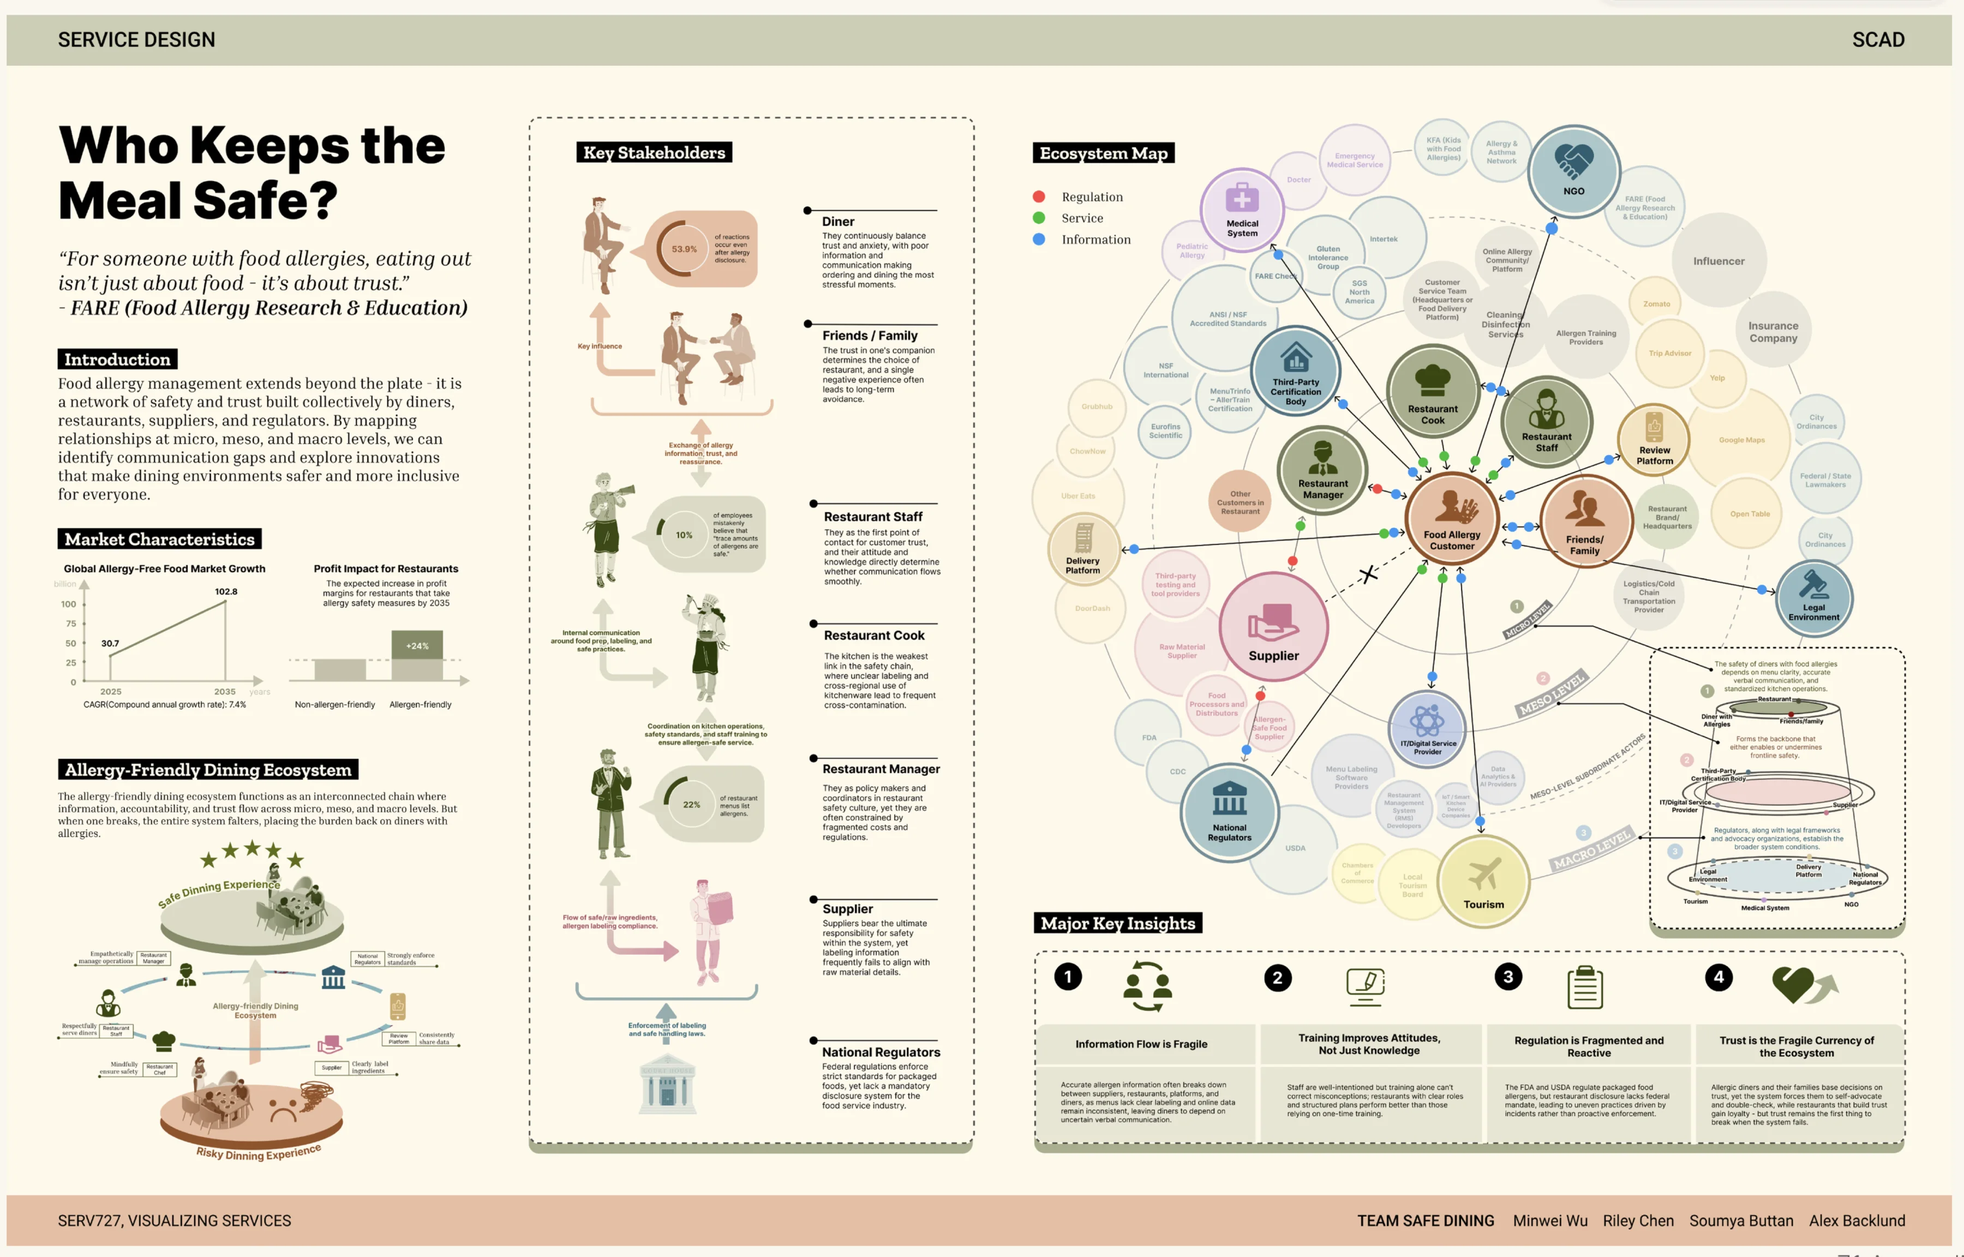
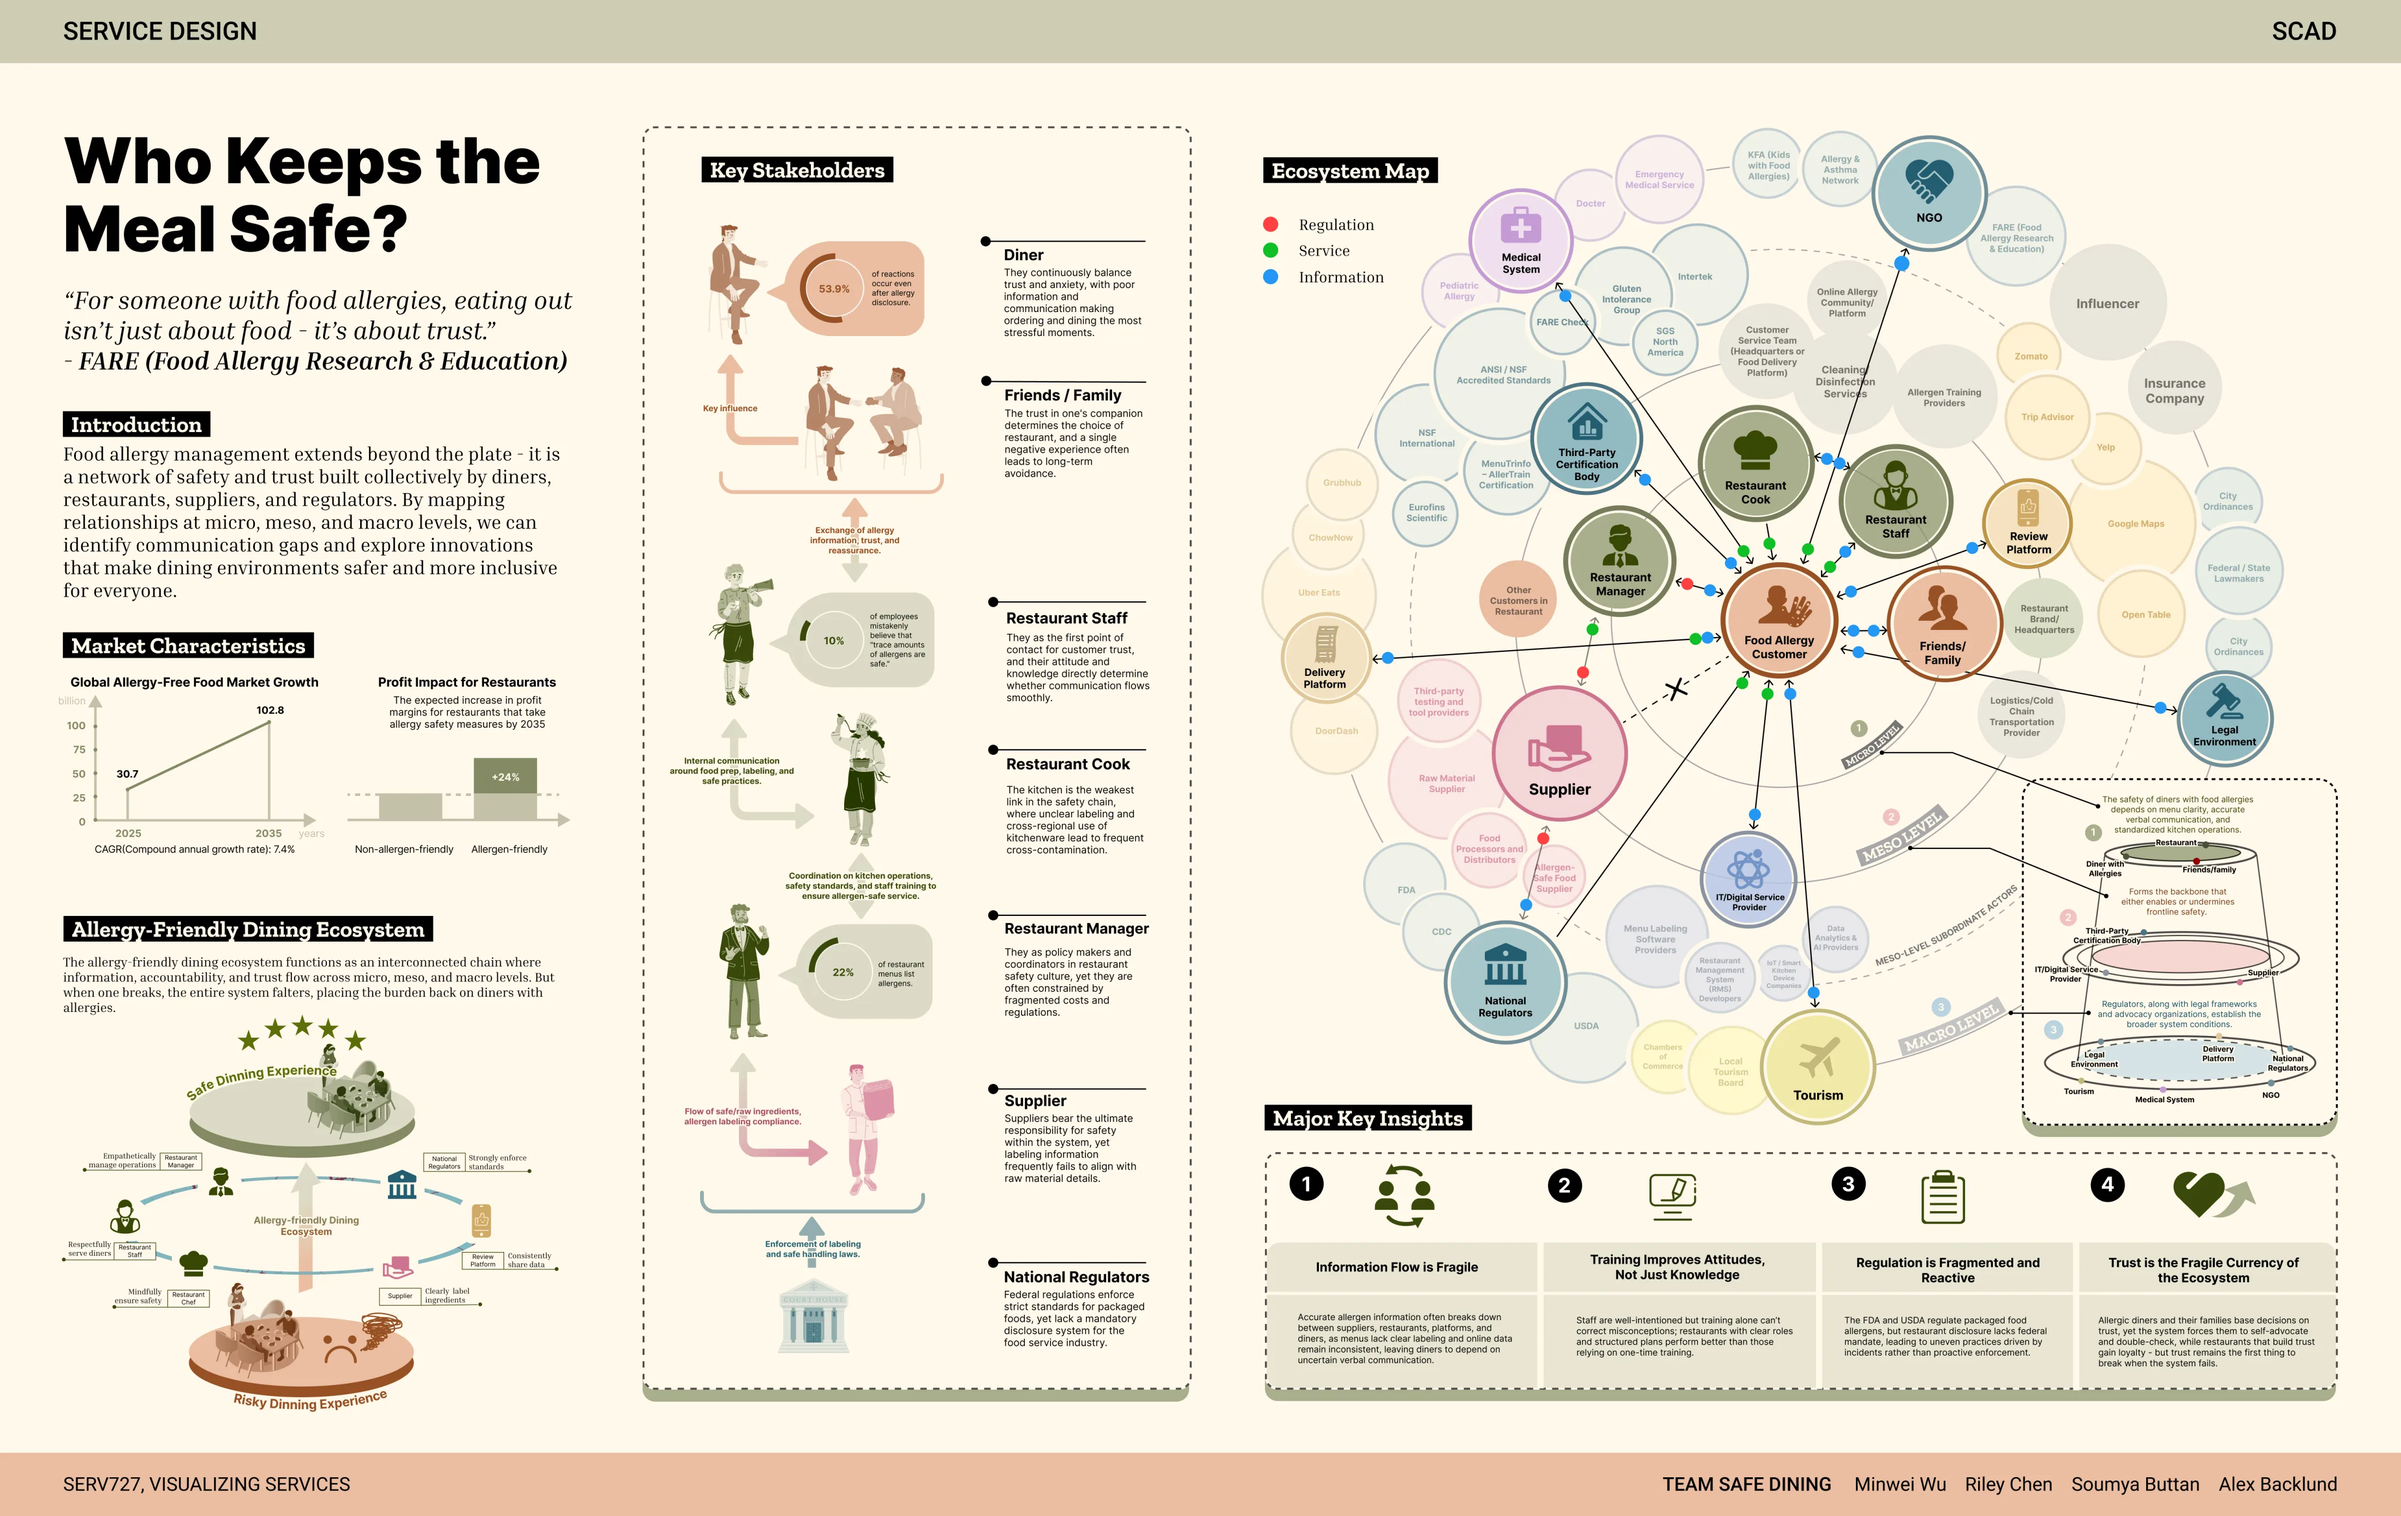
Safe Dining: final maps and posters from Figma
Full customer journey map (jobs to be done, needs, opportunity scores),
the ecosystem/system map, and the two infographic posters exported from
the Figma finals instead of the PDF.

diff --git a/projects/safedining.html b/projects/safedining.html
@@ -16,7 +16,7 @@
   <link rel="preconnect" href="https://fonts.gstatic.com" crossorigin>
   <link rel="stylesheet" href="https://fonts.googleapis.com/css2?family=Inter:opsz,wght@14..32,400;14..32,500;14..32,600;14..32,700&family=Poppins:wght@400;500;600&family=Sulphur+Point:wght@400&display=swap">
   <link rel="stylesheet" href="../styles.css?v=20261017a">
-  <link rel="stylesheet" href="../case.css?v=20261018b">
+  <link rel="stylesheet" href="../case.css?v=20261018c">
 </head>
 <body class="case case--olive">
   <a class="skip" href="#main">Skip to content</a>
@@ -82,9 +82,9 @@
       </div>
       <div class="c-covers">
         <img class="wipe" src="../assets/projects/safedining/wp/01.webp" alt="White paper cover: Safe Dining for People With Allergies" width="1600" height="1236" loading="lazy">
-        <img class="wipe" src="../assets/projects/safedining/poster-journey.webp" alt="Infographic poster: Customer Journey Map" width="3600" height="2304" loading="lazy">
+        <img class="wipe" src="../assets/projects/safedining/poster-journey.webp?v=2" alt="Infographic poster: Customer Journey Map" width="4400" height="2779" loading="lazy">
         <img class="wipe" src="../assets/projects/safedining/wp/07.webp" alt="White paper spread: Sitting at the Table of Trust" width="1600" height="1236" loading="lazy">
-        <img class="wipe" src="../assets/projects/safedining/poster-ecosystem.webp" alt="Infographic poster: Ecosystem Map" width="3600" height="2304" loading="lazy">
+        <img class="wipe" src="../assets/projects/safedining/poster-ecosystem.webp?v=2" alt="Infographic poster: Ecosystem Map" width="4400" height="2779" loading="lazy">
       </div>
     </section>
 
@@ -206,8 +206,8 @@
         </div>
         <p class="persona__story">Tomorrow Agnes is hosting a small dinner with friends. They want to try somewhere new, but with her allergies, every choice has to be made carefully.</p>
       </div>
-      <p class="c-text reveal" style="margin-top:72px">We followed her through seven stages, from the first pang of hunger to the review she leaves afterwards. Her mood dips hardest while searching, walking in and ordering, where information is missing and staff knowledge is a gamble.</p>
-      <figure class="c-figure reveal"><img src="../assets/projects/safedining/journey-map.webp" alt="Customer journey map: stages, touchpoints, emotional curve, pain points and opportunities" width="3200" height="2309" loading="lazy"></figure>
+      <p class="c-text reveal" style="margin-top:72px">We followed her through seven stages, from the first pang of hunger to the review she leaves afterwards, mapping her jobs to be done, needs and emotions at each one. Her mood dips hardest while searching, walking in and ordering, where information is missing and staff knowledge is a gamble. Scoring importance against satisfaction showed where to act first.</p>
+      <figure class="c-figure c-figure--tall reveal"><img src="../assets/projects/safedining/journey-map.webp?v=2" alt="Allergy-friendly dining customer journey map: stages, touchpoints, emotions, jobs to be done, needs, pain points, opportunities and opportunity scores" width="2600" height="3994" loading="lazy"></figure>
     </section>
 
     <!-- 04 Ecosystem -->
@@ -216,7 +216,8 @@
         <div class="c-chapter"><span class="c-chapter__num">04</span><h2 class="c-kicker">Ecosystem analysis</h2></div>
         <p class="c-head reveal-mask">Many players, shared responsibility.</p>
         <p class="c-text reveal">Safety doesn’t live with one server. It travels from regulators and suppliers, through managers and kitchens, to the diner’s table. We mapped that chain at the micro, meso and macro level to find where it breaks.</p>
-        <div class="switcher switcher--sheets" data-tabs style="margin-top:48px">
+        <figure class="c-figure c-figure--map reveal"><img src="../assets/projects/safedining/system-map.webp" alt="Allergy-friendly dining ecosystem map: the restaurant at the centre, surrounded by suppliers, certification bodies, review and delivery platforms, regulators, advocacy groups, the medical system and tourism, linked by service, money, goods, information, value and regulation" width="3000" height="2680" loading="lazy"><figcaption>Six kinds of flow (service, money, physical goods, information, intangible value and regulation) between everyone who touches the meal.</figcaption></figure>
+        <div class="switcher switcher--sheets" data-tabs style="margin-top:72px">
           <div class="switcher__tabs" role="tablist" aria-label="Ecosystem maps">
             <button role="tab" aria-selected="true">Ecosystem map</button>
             <button role="tab" aria-selected="false" tabindex="-1">Where it breaks</button>
@@ -299,8 +300,8 @@
       <p class="c-head reveal-mask">Research you can read across a room.</p>
       <p class="c-text reveal">Two printed posters carry the journey and the ecosystem, each with a QR code to its interactive online version. Click to look closer.</p>
       <div class="posters reveal-stagger">
-        <figure><img src="../assets/projects/safedining/poster-journey.webp" alt="Infographic poster: Between Anxiety and Assurance, the customer journey map" width="3600" height="2304" loading="lazy"><figcaption>Between Anxiety and Assurance · customer journey map</figcaption></figure>
-        <figure><img src="../assets/projects/safedining/poster-ecosystem.webp" alt="Infographic poster: Who Keeps the Meal Safe, the ecosystem map" width="3600" height="2304" loading="lazy"><figcaption>Who Keeps the Meal Safe? · ecosystem map</figcaption></figure>
+        <figure><img src="../assets/projects/safedining/poster-journey.webp?v=2" alt="Infographic poster: Between Anxiety and Assurance, the customer journey map" width="4400" height="2779" loading="lazy"><figcaption>Between Anxiety and Assurance · customer journey map</figcaption></figure>
+        <figure><img src="../assets/projects/safedining/poster-ecosystem.webp?v=2" alt="Infographic poster: Who Keeps the Meal Safe, the ecosystem map" width="4400" height="2779" loading="lazy"><figcaption>Who Keeps the Meal Safe? · ecosystem map</figcaption></figure>
       </div>
       <figure class="c-figure reveal"><img src="../assets/projects/safedining/infographic-board.webp" alt="Infographic board: prevalence, the Big 9 allergens, market growth, profit impact, emotional drivers, stakeholder ecosystem, problem heatmap and opportunity matrix" width="3200" height="2692" loading="lazy"></figure>
     </section>

diff --git a/case.css b/case.css
@@ -540,3 +540,8 @@ img.is-zoomable { cursor: zoom-in; }
 .flip.is-start .flip__book::after { left: 53%; }
 .flip.is-end .flip__book::after { right: 53%; }
 .flip__book::after { transition: left .9s var(--ease), right .9s var(--ease); }
+/* Tall and square maps: keep them readable without filling the whole screen */
+.c-figure--tall { max-width: 980px; margin-left: auto; margin-right: auto; }
+.c-figure--map { margin-top: 56px; }
+.c-figure--map img { background: #fff; padding: clamp(8px, 2vw, 28px); }
+.c-figure--map figcaption { margin-top: 14px; font-size: 15px; color: var(--c-muted); }

diff --git a/projects/brilliant.html b/projects/brilliant.html
@@ -16,7 +16,7 @@
   <link rel="preconnect" href="https://fonts.gstatic.com" crossorigin>
   <link rel="stylesheet" href="https://fonts.googleapis.com/css2?family=Inter:opsz,wght@14..32,400;14..32,500;14..32,600;14..32,700&family=Poppins:wght@400;500;600&family=Sulphur+Point:wght@400&display=swap">
   <link rel="stylesheet" href="../styles.css?v=20261017a">
-  <link rel="stylesheet" href="../case.css?v=20261018b">
+  <link rel="stylesheet" href="../case.css?v=20261018c">
 </head>
 <body class="case case--light">
   <a class="skip" href="#main">Skip to content</a>

diff --git a/projects/swifthome.html b/projects/swifthome.html
@@ -16,7 +16,7 @@
   <link rel="preconnect" href="https://fonts.gstatic.com" crossorigin>
   <link rel="stylesheet" href="https://fonts.googleapis.com/css2?family=Inter:opsz,wght@14..32,400;14..32,500;14..32,600;14..32,700&family=Poppins:wght@400;500;600&family=Sulphur+Point:wght@400&display=swap">
   <link rel="stylesheet" href="../styles.css?v=20261017a">
-  <link rel="stylesheet" href="../case.css?v=20261018b">
+  <link rel="stylesheet" href="../case.css?v=20261018c">
 </head>
 <body class="case case--warm">
   <a class="skip" href="#main">Skip to content</a>

diff --git a/projects/fitfido.html b/projects/fitfido.html
@@ -17,7 +17,7 @@
   <link rel="stylesheet" href="https://fonts.googleapis.com/css2?family=Inter:opsz,wght@14..32,400;14..32,500;14..32,600;14..32,700&family=Poppins:wght@400;500;600&family=Sulphur+Point:wght@400&display=swap">
   <link rel="preload" as="image" href="../assets/projects/fitfido/hero.webp">
   <link rel="stylesheet" href="../styles.css?v=20261017a">
-  <link rel="stylesheet" href="../case.css?v=20261018b">
+  <link rel="stylesheet" href="../case.css?v=20261018c">
 </head>
 <body class="case">
   <a class="skip" href="#main">Skip to content</a>
